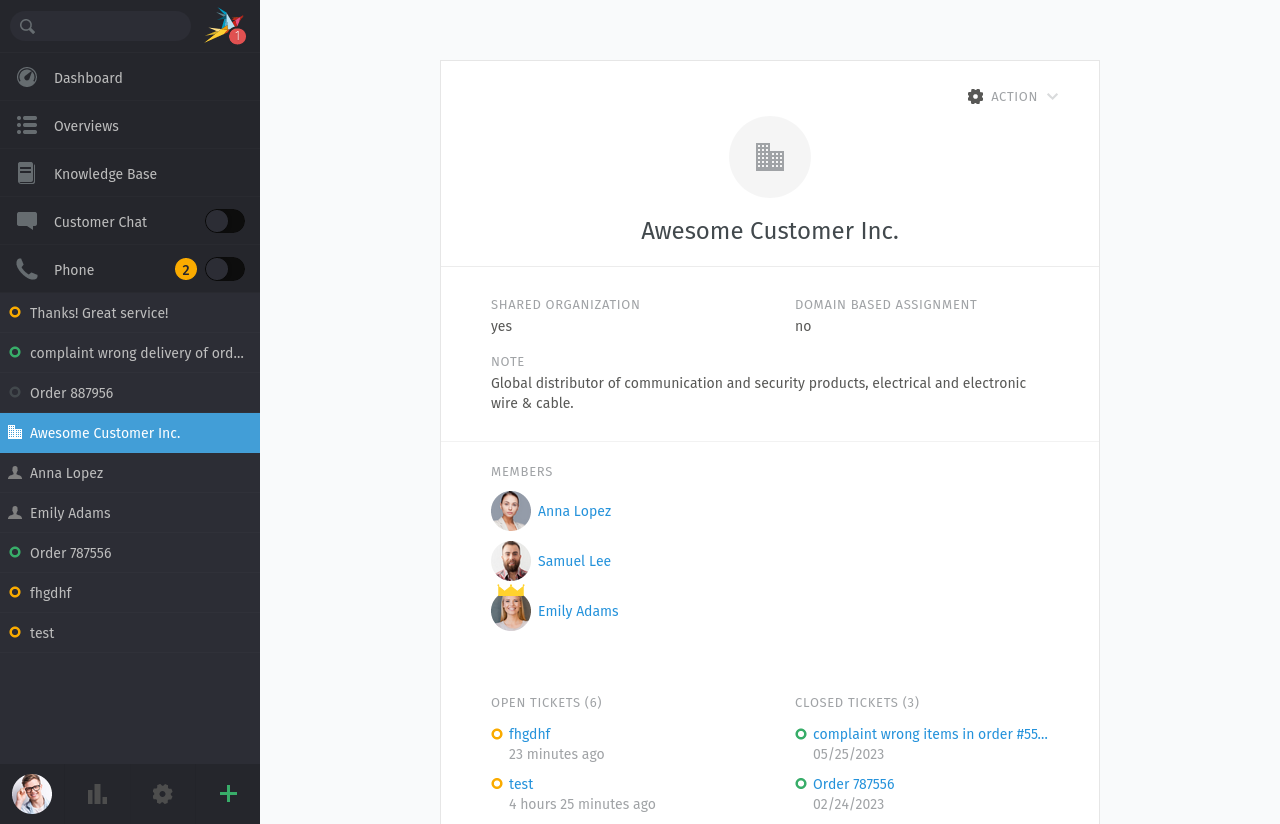
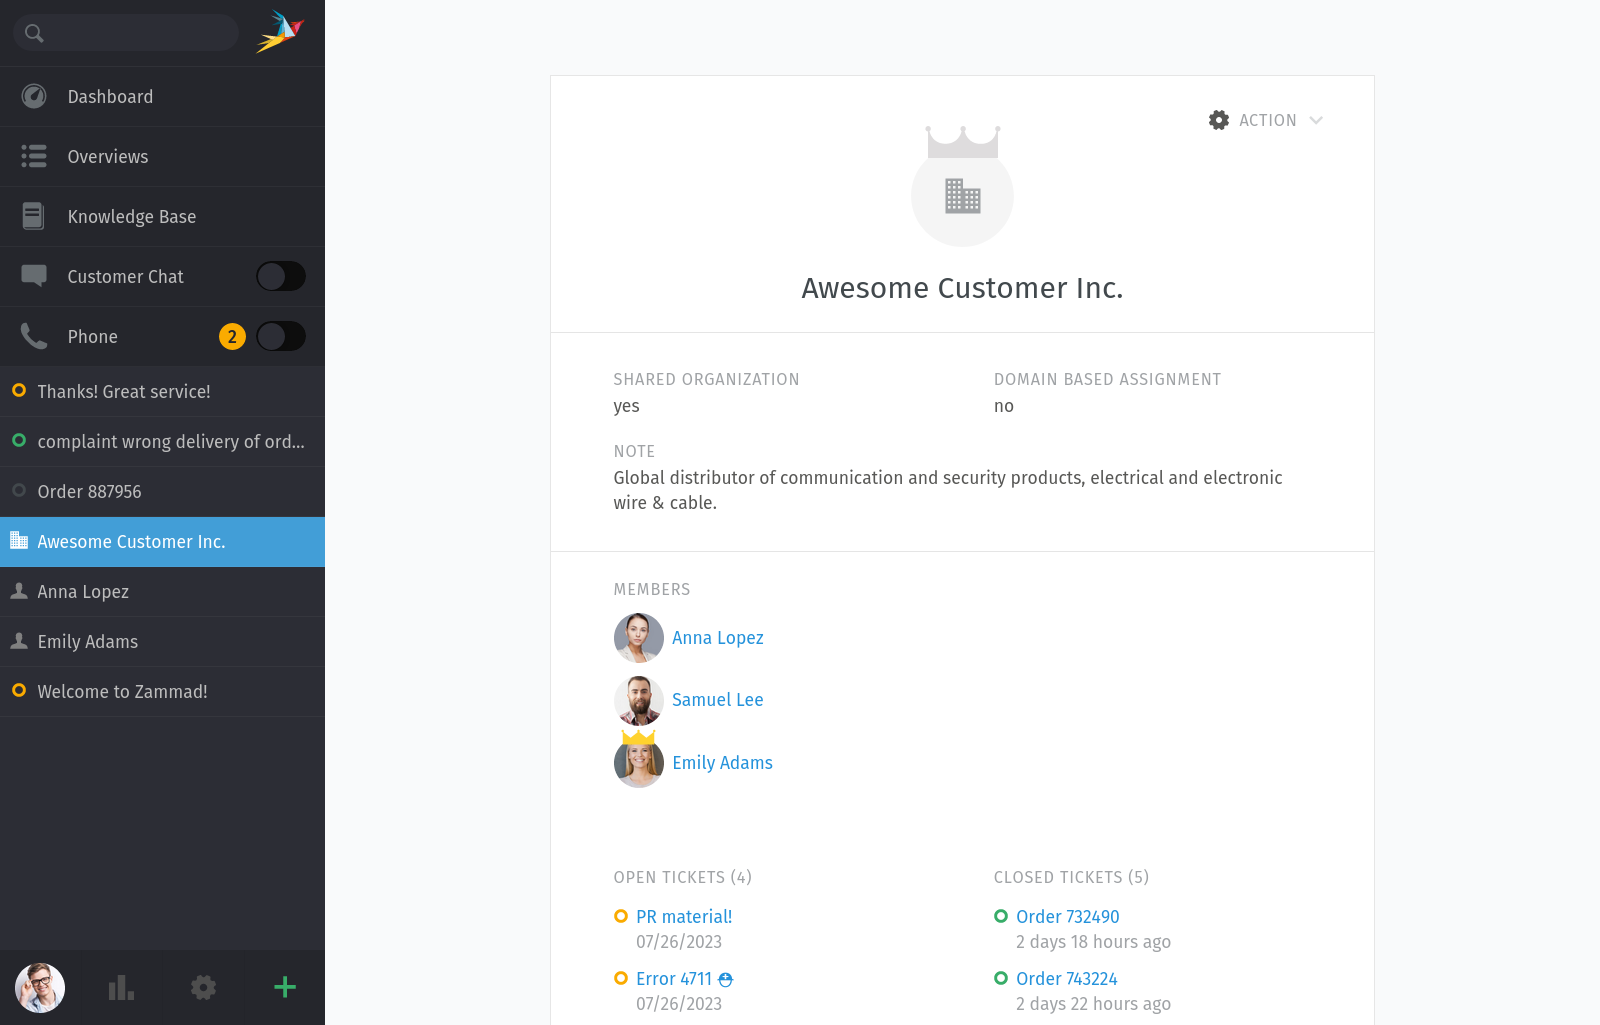
Fixes 274 - prerequisites smime certificate validation + changed screenshot for VIP organization

diff --git a/system/integrations/smime/prerequisites.rst b/system/integrations/smime/prerequisites.rst
@@ -11,7 +11,7 @@ Prerequisites
    (Use these to ✅ **verify incoming message signatures**
    and 🔒 **encrypt outgoing messages**.)
 
-.. note:: 🙋 **I’m new to S/MIME. Where can I get a certificate?**
+.. note:: 🙋 **I'm new to S/MIME. Where can I get a certificate?**
 
    The easiest way to get certificates
    is to buy an annual subscription through a commercial CA, such as:
@@ -27,6 +27,57 @@ Prerequisites
    and usually 🙅 **involves extra work for your contacts**.
 
    Bear in mind that 🤝 **S/MIME only works if the other party is using it, too.**
+
+Certificate and private key checks on upload
+--------------------------------------------
+
+The certificate and public key validation is based on the ``X509v3``
+extensions. 
+
+Uploading a *client certificate*?
+   The following attributes are required then:
+    * Subject Alternative Name (at least one email address has to be present)
+    * Key Usage (``Digital Signature`` and/or ``Key Encipherment``)
+    * Public key algorithm (either ``RSA`` or ``EC``) 
+
+   The Extended Key Usage attribute is optional. If the certificate provides
+   the named attribute, than it must contain the value ``E-mail Protection``.
+
+   Please note that any usable email adress has to be prefixed with ``email:``
+   or ``rfc822:``.
+
+   The named public key algorithms are mandatory for private keys as well.
+
+Uploading a *CA certificate*?
+   In the case of an uploaded CA certificate, providing the value ``CA:TRUE``
+   in the attribute *Basic Contstraints*, the previously mentioned attributes
+   are not verified.
+
+In general, the usage of any expired (``Not After``) or 
+not yet valid (``Not Before``) certificate is denied for outgoing emails.
+
+.. code-block::
+   :caption: Example certificate:
+
+      ...
+            Validity
+                  Not Before: Aug  1 14:20:28 2023 GMT
+                  Not After : Jul 31 14:20:28 2024 GMT
+      ...
+            X509v3 extensions:
+                  X509v3 Basic Constraints:
+                     CA:FALSE
+                  X509v3 Key Usage:
+                     Digital Signature, Non Repudiation, Key Encipherment
+                  X509v3 Subject Key Identifier:
+                     74:17:9D:7D:87:C4:1B:C9:7D:04:DD:37:63:C8:22:69:CA:55:FF:46
+                  X509v3 Authority Key Identifier:
+                     C2:A7:00:D8:F0:24:BF:E5:6F:57:CF:AB:4A:66:F8:61:78:FF:EF:28
+                  X509v3 Subject Alternative Name:
+                     email:alice@acme.corp
+                  X509v3 Extended Key Usage:
+                     E-mail Protection
+      ...
 
 Limitations
 -----------
